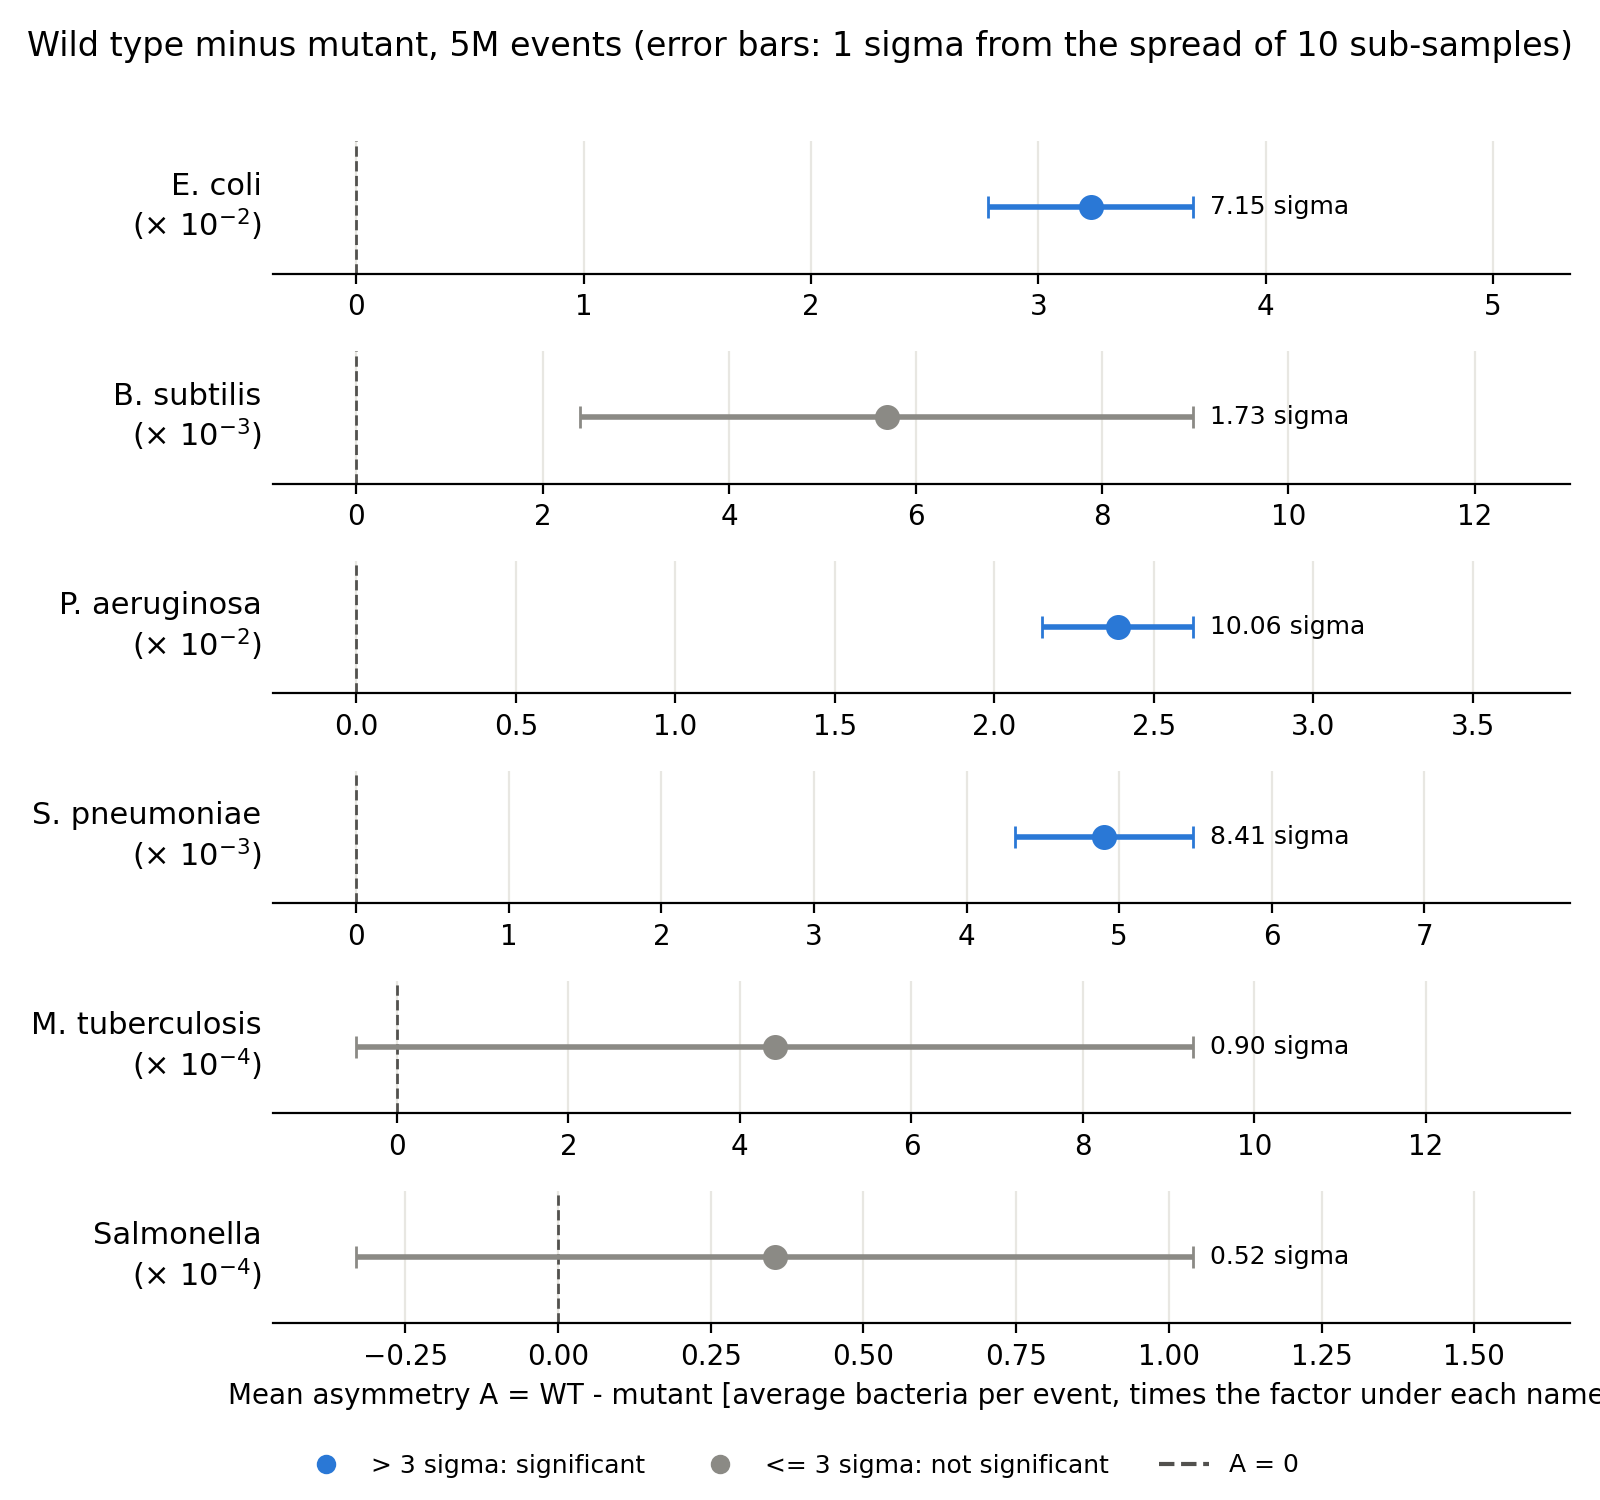
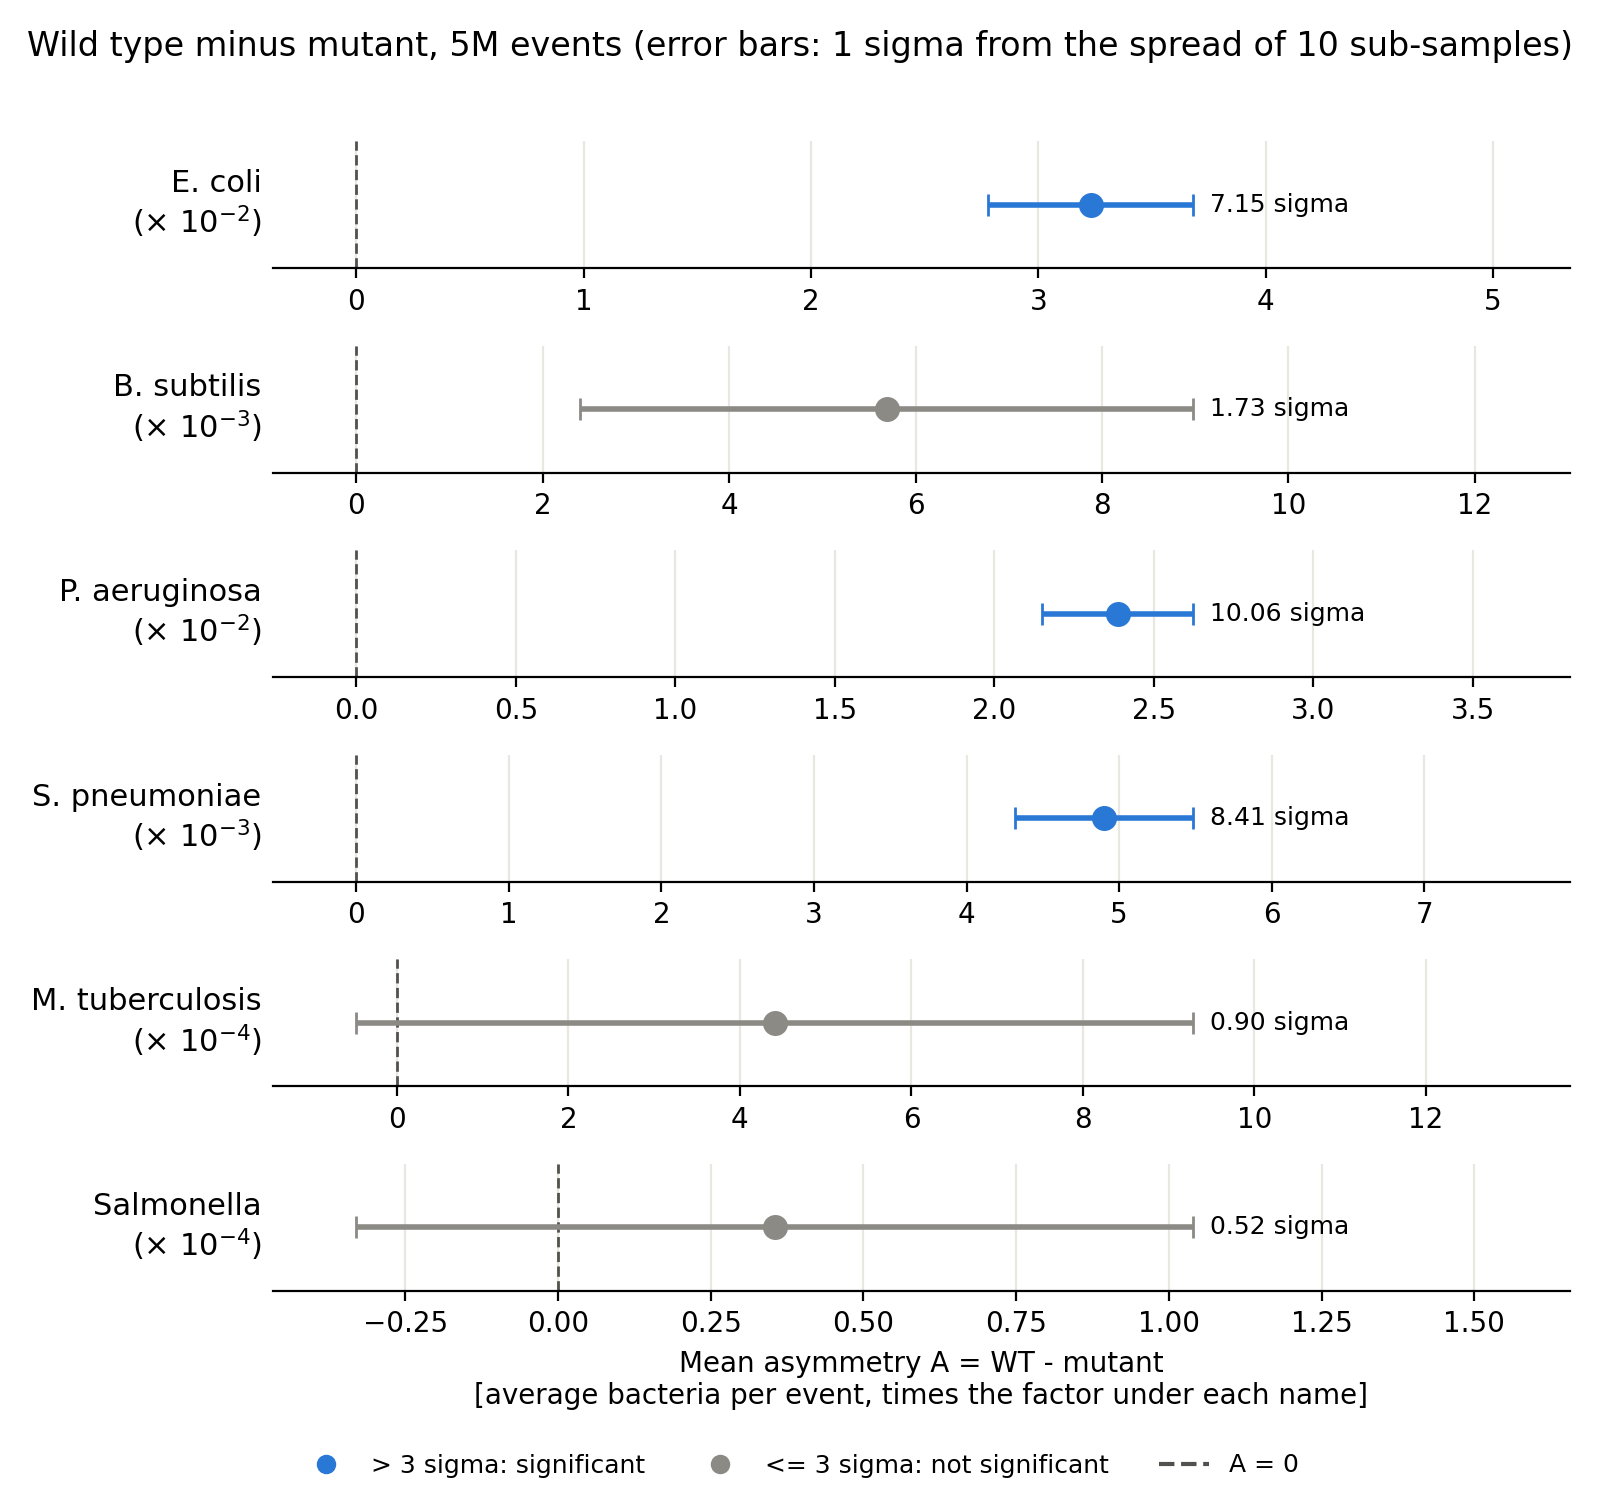
Add files via upload

diff --git a/Week4_part3_plot_FM.py b/Week4_part3_plot_FM.py
@@ -78,7 +78,7 @@ for ax, code, name in zip(axes, pair_codes, pair_names):
     for side in ["top", "right", "left"]:
         ax.spines[side].set_visible(False)
 
-axes[-1].set_xlabel("Mean asymmetry A = WT - mutant [average bacteria per event, times the factor under each name]")
+axes[-1].set_xlabel("Mean asymmetry A = WT - mutant\n[average bacteria per event, times the factor under each name]")
 fig.suptitle("Wild type minus mutant, 5M events (error bars: 1 sigma from the spread of 10 sub-samples)",
              fontsize=12)
 key = [Line2D([], [], marker="o", linestyle="none", color=colour_significant,

diff --git a/Week5_group_figures_FM.py b/Week5_group_figures_FM.py
@@ -220,7 +220,7 @@ def draw_panel(ax, y, sigma, y_low, y_high, unit):
     ax.set_xlim(0.7, len(bins) + 0.3)
     ax.set_ylim(y_low, y_high)
     ax.set_xticks(bins)
-    ax.set_xticklabels(bin_labels, fontsize=9)
+    ax.set_xticklabels(bin_labels, fontsize=8)
     ax.set_xlabel(f"|p| bin ({momentum_unit})")
     ax.set_ylabel("Mean difference D = WT - mutant\n[" + unit_text(unit) + " bacteria per event]")
 

diff --git a/README.md b/README.md
@@ -723,7 +723,7 @@ All pairs: 4 of 18 pairs show an asymmetry above 3 sigma.
 ```
 
 On Windows the Python command is usually `python` instead of `python3`.
-To start from the raw data instead (about 25 minutes extra), see
+To start from the raw data instead (10 to 25 minutes extra, depending on the computer), see
 "Running the analysis" below.
 
 ### Requirements
@@ -763,7 +763,7 @@ output of the one before.
 
 | Step | Script | Needs | Produces | Time |
 |:---:|---|---|---|---|
-| 1 | `Week4_part1_counting_FM.r` | `output-Set1.txt` … `output-Set10.txt` | `sub_sample_results_FM.csv` | ~21 min |
+| 1 | `Week4_part1_counting_FM.r` | `output-Set1.txt` … `output-Set10.txt` | `sub_sample_results_FM.csv` | 7 to 21 min |
 | 2 | `Week4_part2_subsampling_FM.r` | `sub_sample_results_FM.csv` | `final_results_FM.csv` | seconds |
 | 3 | `Week4_part3_asymmetry_FM.r` | `final_results_FM.csv`, `sub_sample_results_FM.csv` | `three_sigma_results_FM.csv` | seconds |
 | 3b | `Week4_part3_plot_FM.py` | `three_sigma_results_FM.csv` | `asymmetry_plot_FM.png` (Figure 1) | seconds |
@@ -831,7 +831,7 @@ errors and every CSV file came out identical to the one included.
 | Step 5: `Can't find 'momentum_sub_sample_results_FM.csv'` | Run step 4 first, or keep the included CSV file in the folder. |
 | `ModuleNotFoundError: No module named 'pandas'` (or `numpy`, `matplotlib`) | Install the packages: `pip install pandas numpy matplotlib` (or `python3 -m pip install ...`), with the same Python you use to run the script. |
 | `python: command not found` | Use `python3` instead of `python` (macOS, Linux). |
-| Step 1 seems to hang | Each file takes about 2 minutes. Uncomment the `cat("Processing chunk"...)` line in `Week4_part1_counting_FM.r` to see progress. |
+| Step 1 seems to hang | Each file takes 1 to 2 minutes. Uncomment the `cat("Processing chunk"...)` line in `Week4_part1_counting_FM.r` to see progress. |
 
 ---
 
